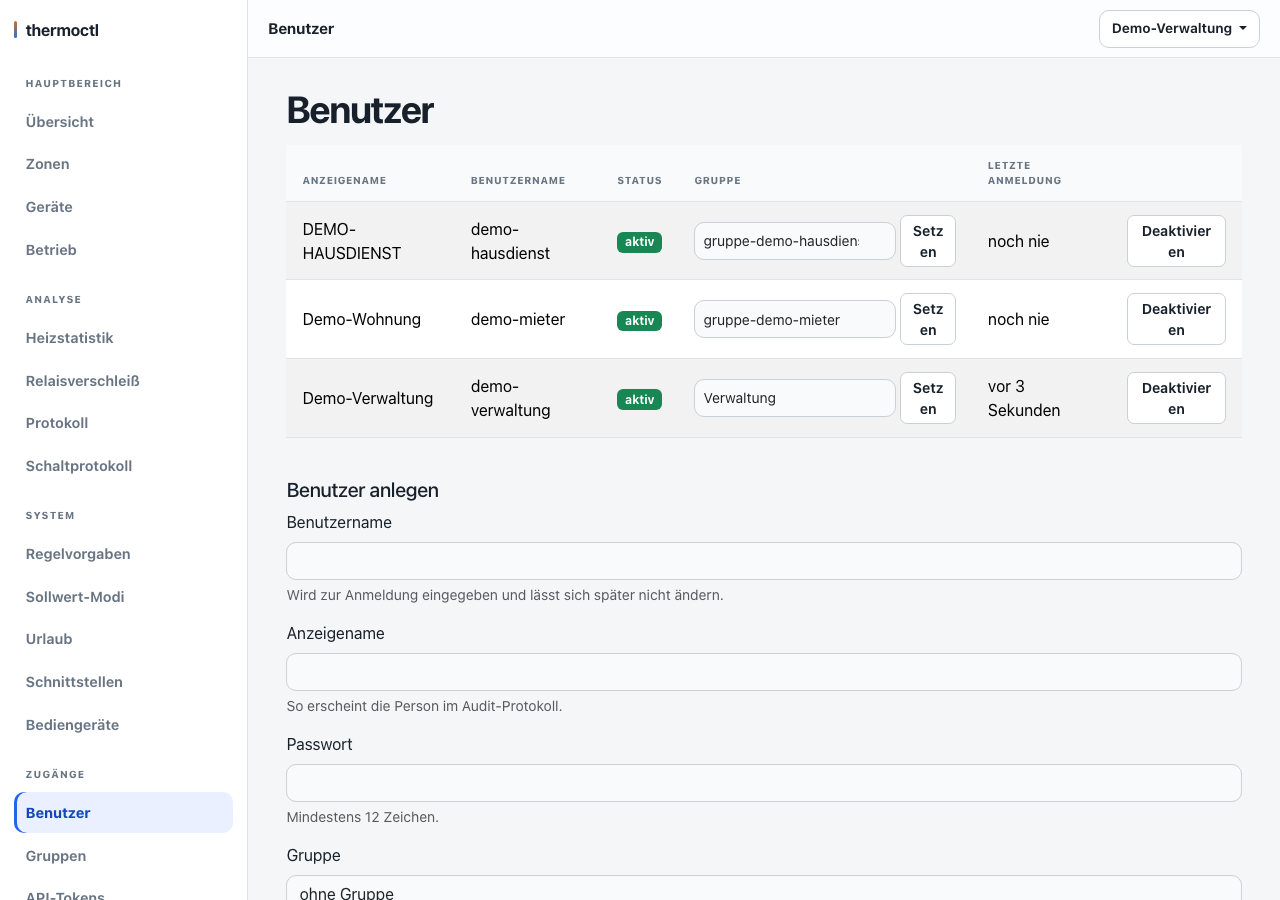
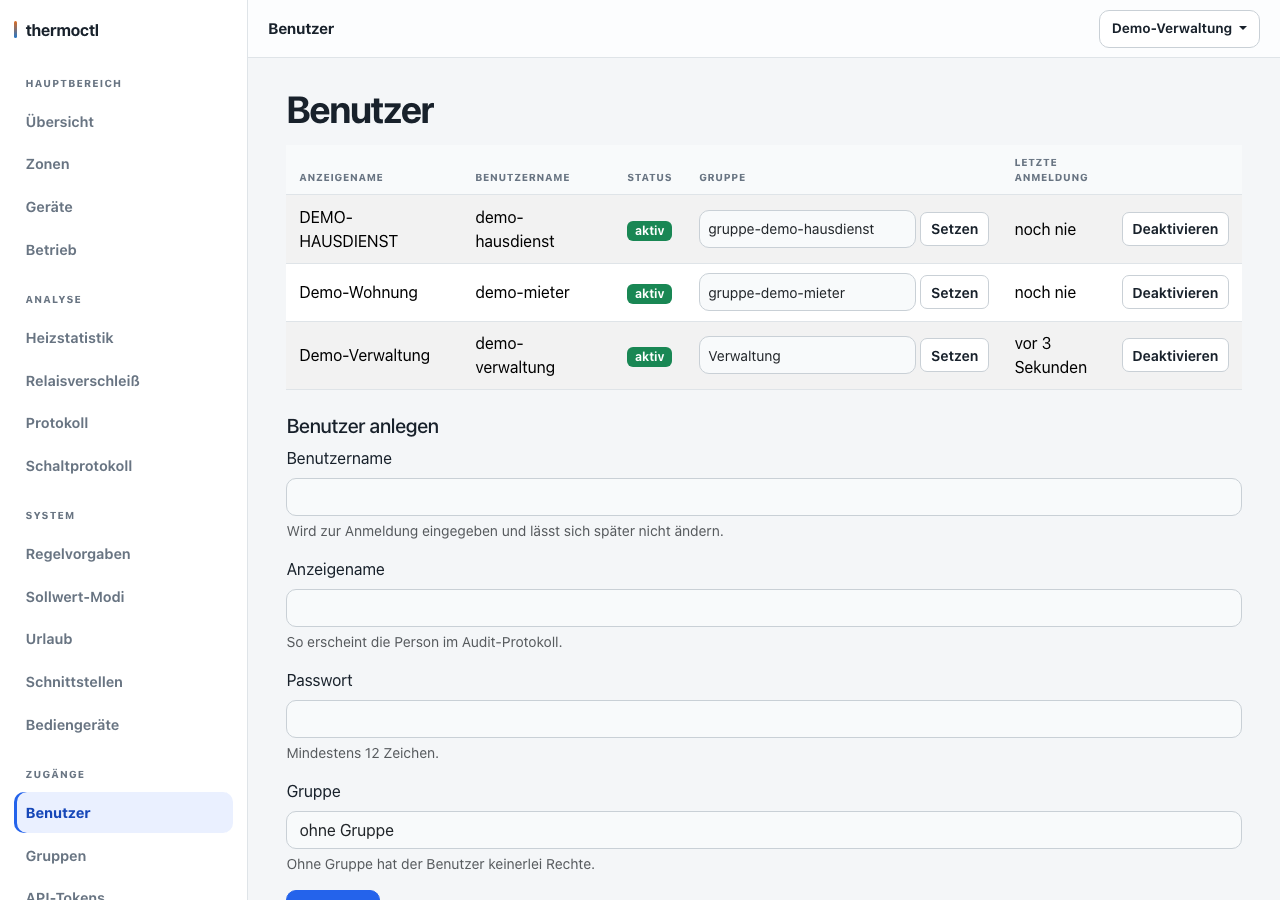
fix: drei Tabellen- und Layoutfehler, sichtbar erst auf den Bildern
Schaltprotokoll: Die festen Breiten aus 9a2701e griffen zwar, waren
aber zu knapp -- bei 955 px Tabellenbreite blieben dem Zeitpunkt 118 px
fuer rund 152 px Text, und das globale overflow-wrap brach den Rest
mitten im Wort. Jetzt passende feste Breiten; Datum und Uhrzeit duerfen
am Leerzeichen umbrechen.

Benutzer: Schaltflaechen schrumpften und brachen um -- jetzt
flex-shrink: 0 mit nowrap, feste Spalten, mobil die bewaehrte
Kartenform. Geraete: der lange Statuschip ragte aus seiner Spalte.

Der vierte gemeldete Befund (abgeschnittene Auswahl bei den Gruppen)
liess sich nicht nachstellen, auch mit geoeffneten Editoren nicht --
unveraendert gelassen statt einen Rotnachweis zu erfinden.

Drei Browsertests bei 1280 px, vier Faelle vorher rot. Drei Bilder neu,
37 bytegleich.

Umgesetzt von Codex; Commit durch die Hauptsession.

diff --git a/thermoctl/web/static/thermoctl.css b/thermoctl/web/static/thermoctl.css
@@ -735,21 +735,10 @@ body {
     border-bottom-color: var(--line);
 }
 
-/* Gleiche Spaltenbreiten je Tabelle, per `table-layout: fixed` -- ohne feste
- * Prozentwerte quetscht das automatische Tabellenlayout schmale Spalten
- * (Quelle, Zone) bis auf einzelne Buchstaben zusammen, sobald eine andere Spalte
- * (Begründung, Ergebnis) viel Platz beansprucht; das globale
- * `overflow-wrap: anywhere` (oben) erlaubt dem Browser dabei ausdrücklich, ein
- * einzelnes Wort mitten durchzubrechen, weil es genau diese Mindestbreiten in die
- * Berechnung einbezieht. `table-layout: fixed` übergeht diese Berechnung ganz
- * und nimmt stattdessen die hier angegebenen Breiten -- das behebt beide
- * Tabellen unten aus derselben Ursache.
- *
- * `.tc-stack-table` trägt das mobile Verhalten (Kopfzeile ausgeblendet, jede
- * Zeile als eigener Block), gemeinsam für jede Tabelle, die es benutzt --
- * `.tc-device-table` (Geräteliste) und `.tc-command-table` (Schaltprotokoll)
- * ergänzen nur noch ihre eigenen Spaltenbreiten und welche Spalten mobil eine
- * Beschriftung brauchen. */
+/* Feste Spalten mit eigenem Platzbudget; `fixed` allein verhindert keinen
+ * Textüberlauf. Das globale `overflow-wrap: anywhere` bleibt die Sicherung für
+ * frei vergebene, überlange Namen. `.tc-stack-table` liefert gemeinsam die
+ * mobile Kartenform, die Tabellen ergänzen ihre Breiten und Beschriftungen. */
 .tc-stack-table {
     margin-bottom: 0;
 }
@@ -825,15 +814,64 @@ body {
     }
 }
 
-/* Schaltprotokoll: Zeitpunkt, Quelle, Zone, Gerät, Befehl, Ergebnis, Begründung. */
+/* Bei 1280px bleiben neben Navigation und Seitenpolster nur 955px übrig.
+ * 15% davon boten dem einzeiligen Zeitpunkt bloß 118px Textplatz (Text: 152px).
+ * Datum und Uhrzeit dürfen jetzt am Leerzeichen umbrechen. Die festen Breiten
+ * enthalten je 1.6rem Zellpolster: Quelle bis „Kommandozeile“, Zone bis
+ * „Kinderzimmer“, Gerät bis „Heizkörperventil“, Code bis „thermostat“.
+ * Der Rest gehört Begründung und einzeiligem Nutzlast-Aufklapper. Unterhalb
+ * dieses Budgets scrollt nur die Tabelle; mobil gilt die gemeinsame Kartenform. */
 .tc-command-table { table-layout: fixed; }
-.tc-command-table th:nth-child(1) { width: 15%; } /* Zeitpunkt, "10.09.2026 12:49:00" bleibt einzeilig */
-.tc-command-table th:nth-child(2) { width: 13%; } /* Quelle -- alle fünf Beschriftungen aus ACTOR_SOURCES passen einzeilig, auch "Weboberfläche"/"Kommandozeile" */
-.tc-command-table th:nth-child(3) { width: 12%; } /* Zone, frei vergebener Name */
-.tc-command-table th:nth-child(4) { width: 13%; } /* Gerät, frei vergebener Name -- ein Bindestrich bricht dort sauber um */
-.tc-command-table th:nth-child(5) { width: 10%; } /* Befehl, längster Code ist "thermostat" */
-.tc-command-table th:nth-child(6) { width: 18%; } /* Ergebnis -- braucht bei "Gescheitert" Platz für den Fehlertext eines echten Geräte- oder Broker-Fehlers */
-.tc-command-table th:nth-child(7) { width: 19%; } /* Begründung */
+.tc-command-table th:nth-child(1) { width: 7rem; }
+.tc-command-table th:nth-child(2) { width: 8.5rem; }
+.tc-command-table th:nth-child(3) { width: 8.25rem; }
+.tc-command-table th:nth-child(4) { width: 9.5rem; }
+.tc-command-table th:nth-child(5) { width: 6.5rem; }
+.tc-command-table th:nth-child(6) { width: 9.5rem; }
+
+.tc-command-table td:nth-child(1) {
+    overflow-wrap: normal;
+}
+
+.tc-command-table td:nth-child(2) {
+    white-space: nowrap;
+}
+
+/* Die Gruppenauswahl bekommt den verbleibenden Raum. Aktionsbeschriftungen
+ * sind unteilbar; der Select darf schrumpfen, der zugehörige Knopf nicht. */
+.tc-user-table { table-layout: fixed; }
+.tc-user-table th:nth-child(1) { width: 11rem; }
+.tc-user-table th:nth-child(2) { width: 9.5rem; }
+.tc-user-table th:nth-child(3) { width: 4.5rem; }
+.tc-user-table th:nth-child(5) { width: 6.5rem; }
+.tc-user-table th:nth-child(6) { width: 8.5rem; }
+.tc-user-table .btn {
+    flex-shrink: 0;
+    white-space: nowrap;
+}
+.tc-user-table .form-select { min-width: 0; }
+
+@media (min-width: 768px) {
+    .tc-command-table,
+    .tc-user-table { min-width: 59.5rem; }
+}
+
+@media (max-width: 767.98px) {
+    .tc-user-table td[data-label]::before {
+        content: attr(data-label) ":";
+        display: block;
+        color: var(--muted);
+        font-size: 0.75rem;
+    }
+}
+
+/* Ein Status ist ein Satz und kann länger als seine feste Spalte sein.
+ * Nur in der Gerätetabelle dürfen Chips an Leerzeichen umbrechen. */
+.tc-device-table .tc-chip {
+    max-width: 100%;
+    white-space: normal;
+    overflow-wrap: normal;
+}
 
 .tc-command-table td:nth-child(5) code {
     white-space: nowrap;

diff --git a/thermoctl/web/templates/users.html b/thermoctl/web/templates/users.html
@@ -6,9 +6,9 @@
 <section id="user-list">
     <h1 class="mb-3">Benutzer</h1>
     {{ error_notice(hint) }}
-    {# Scrollt in sich selbst statt die ganze Seite breit zu machen: Auf einem Telefon passt diese Tabelle nicht nebeneinander. #}
+    {# Dieselbe mobile Kartenform wie Geräte und Schaltprotokoll. #}
     <div class="table-responsive">
-    <table class="table table-striped align-middle">
+    <table class="table table-striped align-middle tc-stack-table tc-user-table">
         <thead>
         <tr>
             <th scope="col">Anzeigename</th>
@@ -22,16 +22,16 @@
         <tbody>
         {% for person in user %}
         <tr>
-            <td>{{ person.display_name }}</td>
-            <td>{{ person.username }}</td>
-            <td>
+            <td data-label="Anzeigename">{{ person.display_name }}</td>
+            <td data-label="Benutzername">{{ person.username }}</td>
+            <td data-label="Status">
                 {% if person.is_active %}
                 <span class="badge text-bg-success">aktiv</span>
                 {% else %}
                 <span class="badge text-bg-secondary">inaktiv</span>
                 {% endif %}
             </td>
-            <td>
+            <td data-label="Gruppe">
                 <form method="post" action="{{ url_prefix }}/users/{{ person.id }}/group"
                       class="d-flex gap-1 align-items-center">
                     <select class="form-select form-select-sm" name="group_id"
@@ -50,7 +50,7 @@
                     <button type="submit" class="btn btn-sm btn-outline-secondary">Setzen</button>
                 </form>
             </td>
-            <td title="{{ (person.last_login_at|localtime(timezone)).strftime('%d.%m.%Y %H:%M:%S') if person.last_login_at else '' }}">{{ person.last_login_at|age }}</td>
+            <td data-label="Letzte Anmeldung" title="{{ (person.last_login_at|localtime(timezone)).strftime('%d.%m.%Y %H:%M:%S') if person.last_login_at else '' }}">{{ person.last_login_at|age }}</td>
             <td class="text-end">
                 <form method="post" action="{{ url_prefix }}/users/{{ person.id }}/active" class="d-inline">
                     <input type="hidden" name="active" value="{{ 'no' if person.is_active else 'yes' }}">

diff --git a/thermoctl/web/templates/device_commands.html b/thermoctl/web/templates/device_commands.html
@@ -55,7 +55,7 @@
       <tbody>
       {% for entry, source, outcome in entries %}
       <tr>
-        <td class="text-nowrap" title="{{ (entry.sent_at|localtime(timezone)).strftime('%d.%m.%Y %H:%M:%S') }}">{{ (entry.sent_at|localtime(timezone)).strftime("%d.%m.%Y %H:%M:%S") }}</td>
+        <td title="{{ (entry.sent_at|localtime(timezone)).strftime('%d.%m.%Y %H:%M:%S') }}">{{ (entry.sent_at|localtime(timezone)).strftime("%d.%m.%Y %H:%M:%S") }}</td>
         <td data-label="Quelle">{{ source.label }}</td>
         <td data-label="Zone">{{ entry.zone_name }}</td>
         <td data-label="Gerät">{{ entry.device_name }}</td>

diff --git a/browser_tests/test_admin_table_layout.py b/browser_tests/test_admin_table_layout.py
@@ -1,0 +1,116 @@
+"""Rendered geometry of the documentation's real demo data, not CSS declarations."""
+
+from collections.abc import Iterator
+from contextlib import closing
+
+import pytest
+from playwright.sync_api import Browser, Page
+
+from browser_tests.live_server import LiveServer, _live_server
+from tools.screenshot_seed import seed_demo
+from tools.screenshots import _login
+
+pytestmark = pytest.mark.browser
+
+
+@pytest.fixture(scope="module")
+def demo_server() -> Iterator[LiveServer]:
+    # Isolated from the shared suite: other tests must not change these examples.
+    with closing(_live_server("", admin_username="demo-verwaltung")) as servers:
+        server = next(servers)
+        with server.session() as session:
+            seed_demo(session, server.admin_password)
+        yield server
+
+
+@pytest.fixture
+def demo_page(browser: Browser, demo_server: LiveServer) -> Iterator[Page]:
+    with browser.new_context(
+        base_url=demo_server.base_url, locale="de-DE", timezone_id="Europe/Berlin"
+    ) as context:
+        page = context.new_page()
+        _login(page, demo_server.admin_username, demo_server.admin_password)
+        yield page
+
+
+# Range rectangles expose painted text, including overflow from a perfectly
+# non-overlapping pair of table-cell boxes. Check words separately so wrapping
+# at spaces remains allowed, while "Wohnzimm / er" fails.
+_GEOMETRY = r"""root => {
+    const failures = [];
+    const visible = el => el.getClientRects().length &&
+        getComputedStyle(el).visibility !== 'hidden';
+    const contains = (outer, inner) => inner.left >= outer.left - 1 &&
+        inner.right <= outer.right + 1 && inner.top >= outer.top - 1 &&
+        inner.bottom <= outer.bottom + 1;
+    const walker = document.createTreeWalker(root, NodeFilter.SHOW_TEXT);
+    while (walker.nextNode()) {
+        const node = walker.currentNode, parent = node.parentElement;
+        if (!visible(parent) || parent.closest('option, select')) continue;
+        if (parent.closest('details:not([open])') && !parent.closest('summary')) continue;
+        const head = parent.closest('thead');
+        if (head && head.getBoundingClientRect().height <= 1) continue;
+        const cell = parent.closest('td, th');
+        for (const match of node.textContent.matchAll(/[\p{L}\p{N}]+/gu)) {
+            const range = document.createRange();
+            range.setStart(node, match.index);
+            range.setEnd(node, match.index + match[0].length);
+            const rects = [...range.getClientRects()].filter(r => r.width && r.height);
+            if (!rects.length) continue; // e.g. closed details
+            if (new Set(rects.map(r => Math.round(r.top))).size > 1)
+                failures.push(`Wortumbruch: ${match[0]}`);
+            if (cell && rects.some(r => !contains(cell.getBoundingClientRect(), r)))
+                failures.push(`Text außerhalb der Zelle: ${match[0]}`);
+        }
+    }
+    for (const row of root.querySelectorAll('tbody tr')) {
+        const cells = [...row.cells].filter(visible);
+        for (let i = 1; i < cells.length; i++) {
+            const a = cells[i-1].getBoundingClientRect(), b = cells[i].getBoundingClientRect();
+            if (Math.min(a.right,b.right)-Math.max(a.left,b.left) > 1 &&
+                Math.min(a.bottom,b.bottom)-Math.max(a.top,b.top) > 1)
+                failures.push('Nachbarzellen schneiden sich');
+        }
+    }
+    for (const el of root.querySelectorAll('.tc-chip, button, select')) {
+        if (!visible(el)) continue;
+        const box = el.getBoundingClientRect();
+        const cell = el.closest('td') || el.parentElement;
+        if (!contains(cell.getBoundingClientRect(), box))
+            failures.push(`Element außerhalb: ${el.textContent.trim().slice(0,80)}`);
+    }
+    if (document.documentElement.scrollWidth > innerWidth)
+        failures.push('Seite breiter als Bildschirm');
+    return [...new Set(failures)];
+}"""
+
+
+@pytest.mark.parametrize("width", [1280, 390])
+@pytest.mark.parametrize("route, selector", [
+    ("/device-commands", ".tc-command-table"),
+    ("/users", "#user-list table"),
+    ("/devices", "#device-list"),
+])
+def test_demo_table_content_stays_inside_cells_without_split_words(
+    demo_page: Page, width: int, route: str, selector: str
+) -> None:
+    demo_page.set_viewport_size({"width": width, "height": 900})
+    demo_page.goto(route)
+    demo_page.evaluate("document.fonts.ready")
+    root = demo_page.locator(selector)
+    assert root.locator("tbody tr").count() >= 3
+    failures = root.evaluate(_GEOMETRY)
+    assert not failures, "\n".join(failures)
+
+
+def test_group_choices_fit_at_documentation_width(demo_page: Page) -> None:
+    # The documented image has CLOSED editors. Check the actual opened controls
+    # as well, without manufacturing a failure by changing demo data or CSS.
+    demo_page.set_viewport_size({"width": 1280, "height": 900})
+    demo_page.goto("/groups")
+    editors = demo_page.locator(".tc-permission-editor")
+    assert editors.count() >= 3
+    for editor in editors.all():
+        editor.locator("summary").click()
+        assert editor.locator(".tc-permission-zones input").count() > 0
+        assert editor.evaluate(_GEOMETRY) == []

diff --git a/docs/STATUS.md b/docs/STATUS.md
@@ -1,6 +1,27 @@
 # Stand
 
-Letzte Aktualisierung: 2026-09-21.
+Letzte Aktualisierung: 2026-09-22.
+
+## Verwaltungstabellen bei 1280 px und mobil
+
+Schaltprotokoll, Benutzer und Geräte bleiben mit den Doku-Demodaten innerhalb ihrer
+Zellen. Die frühere Schaltprotokoll-Korrektur (`9a2701e`) griff zwar: `table-layout:
+fixed` und Prozentbreiten waren aktiv. Bei 1280 px blieben aber nur 955 px Tabellenbreite;
+15 % für den Zeitpunkt enthielten nach Zellpolster nur 118 px für rund 152 px Text.
+`nowrap` ließ ihn in die Quelle laufen; das globale `overflow-wrap: anywhere` trennte
+Wörter in den ebenfalls zu knappen Nachbarspalten.
+
+Jetzt haben Schaltprotokoll und Benutzer feste, am Inhalt samt Zellpolster bemessene
+Spalten und am Desktop ein Mindestbudget von 59,5 rem im vorhandenen Scrollcontainer.
+Datum und Uhrzeit dürfen am Leerzeichen umbrechen, Quellen und Benutzeraktionen bleiben
+einzeilig. Mobil nutzen beide wie die Geräte `.tc-stack-table`. Lange Gerätestatuschips
+brechen innerhalb der Zelle an Leerzeichen um; vorher ragte ihr `nowrap` über die feste
+Statusspalte hinaus. Die globale Umbruchsicherung bleibt erhalten.
+
+Der gemeldete Gruppenfehler ist im genannten Bild nicht sichtbar (Editoren geschlossen)
+und bei 1280 px auch mit geöffneten Editoren nicht reproduzierbar. Keine Änderung dort.
+Browsertests prüfen Wortfragmente, Zellgrenzen und Bedienelemente mit den echten
+Doku-Demodaten bei 1280/390 px; die Gruppenrechteauswahl zusätzlich geöffnet bei 1280 px.
 
 ## Gewöhnliche Tests ohne Playwright
 
@@ -166,24 +187,7 @@ Die frühere Aussage weiter unten in diesem Dokument, ein gescheiterter Meross-B
 werde „unbegrenzt oft, bewusst ohne Backoff" erneut versucht, gilt nicht mehr -- siehe
 dort.
 
-## Schaltprotokoll: Spaltenbreiten, kein viertes Ergebnis, mobile Kartenform
-
-Meldung: `/device-commands` brach QUELLE und ZONE mitten im Wort um ("wohnzimme/r"),
-der Aufklapper für die Nutzlast wirkte durch einen Umbruch wie ein zweizeiliger
-Fließtext, und mobil (390 px) zerlief die Tabelle auf über 13.000 px Höhe -- derselbe
-Fehler wie einmal bei der Geräteliste (`.tc-device-table`), nur diesmal ohne deren
-Gegenmittel. Ursache identisch: keine feste Spaltenbreite, und das globale
-`overflow-wrap: anywhere` erlaubt dem automatischen Tabellenlayout, eine schmale Spalte
-bis auf ein Zeichen zusammenzuquetschen, sobald eine andere (Begründung, Ergebnis) viel
-Platz beansprucht.
-
-Behoben mit `table-layout: fixed` und abgestimmten Prozentbreiten für alle sieben
-Spalten (`.tc-command-table`, `thermoctl.css`), plus derselben mobilen Kartenform wie
-bei der Geräteliste -- deren gemeinsamer Teil (Kopfzeile ausblenden, Zeile als Block,
-Beschriftung je Feld) ist jetzt als `.tc-stack-table` herausgezogen, damit keine zweite
-Fassung entsteht; beide Tabellen tragen diese Klasse zusätzlich zu ihrer eigenen.
-Seitenhöhe bei 18 Einträgen: 2506 px auf 2004--2088 px am Schreibtisch (abhängig vom
-Ergebnis-Mix), 13.473 px auf 5.899 px mobil.
+## Schaltprotokoll: drei Ergebniszustände
 
 **Kein viertes Ergebnis "verworfen"/"discarded" existiert.** `command_outcome` hat und
 hatte immer nur drei Zeilen (`executed`/`suppressed`/`failed`, Migration
